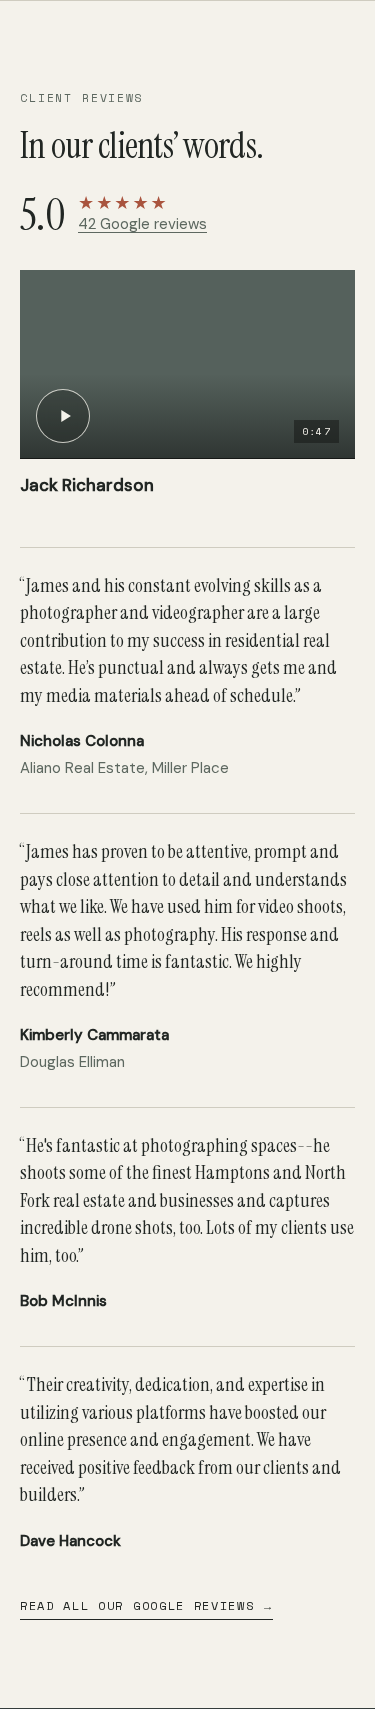
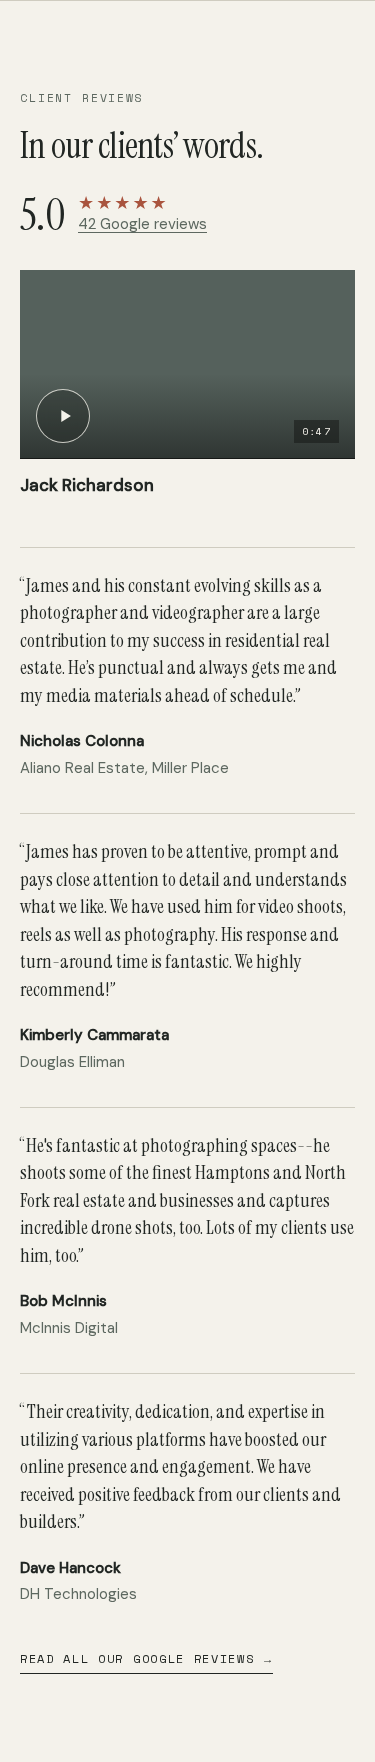
James's Vercel comments, Sep 29: captions, credits, Creator CTAs, Commercial layout and crops, review names, BPE still
- Architecture: no caption beneath the paired photos (alt text kept).
- Home and service heroes: "On screen: ..." credit removed.
- About: Bob McInnis, McInnis Digital; Dave Hancock, DH Technologies.
- LI Creator Studios: no "Part of a session" / "With Recording + Editing" tags on formats; the story section ends with
  two buttons, Book a Session and See Pricing (to #sessions).
- Commercial: "What we do" eyebrow over a wider heading (two lines); RevivaLuxe portrait framed higher so both faces
  show; BPE Ironworks feature uses a torch-cutting action frame from the approved film (ph-bpe-torch-cut, pinned,
  gallery:false); "Commercial real estate media"; Best value badge sits above the plan name below 1280 px.
- Pending: Home LI Creator Studios tile clip (Champagne Confidential, EP 22 clip 6) once the file is staged.
- Tests: e2e 61/61, unit 29/29, media 253/253, legacy 23/23.

Claude-Session: https://claude.ai/code/session_01QdXDHTFB7SVkVxiv2k6vdC

diff --git a/src/pages.js b/src/pages.js
@@ -48,7 +48,7 @@ export function buildPages(ctx) {
     <h1 class="display">${title}</h1>
     ${lede ? `<p class="lede">${lede}</p>` : ''}
     ${cta ? `<div class="actions">${cta}</div>` : ''}
-    ${video && allMediaById[video.credit || video.film || video.loop] ? `<p class="hero-credit">On screen: ${esc(allMediaById[video.credit || video.film || video.loop].title)}</p>` : video?.creditText ? `<p class="hero-credit">${esc(video.creditText)} ${video.pending ? needsApproval({ approval: 'pending' }, video.pending) : ''}</p>` : ''}
+    ${video?.creditText ? `<p class="hero-credit">${esc(video.creditText)} ${video.pending ? needsApproval({ approval: 'pending' }, video.pending) : ''}</p>` : ''}
   </div>
   ${video ? motionToggle : ''}
 </section>`;
@@ -150,7 +150,6 @@ export function buildPages(ctx) {
       <p class="hero__meta">East End · Hamptons · North Fork<br>Suffolk · Nassau · NYC</p>
     </div>
   </div>
-  <p class="hero-credit hero-credit--home wrap">On screen: ${esc(allMediaById['re-hamptons-beachfront']?.title || '')}</p>
   ${motionToggle}
 </section>
 
@@ -800,11 +799,8 @@ ${agentMonthly.length ? `<section class="section section--tint">
   const archUsed = new Set(Object.values(archPairIds));
   const archFig = (id, { sizes = '(min-width: 900px) 40vw, 100vw', cls = '' } = {}) => {
     const m = archById[id]; if (!m) return '';
-    const pr = m.project ? projectBySlug[m.project] : null;
-    const cap = pr && visible(pr)
-      ? `${esc(m.alt || m.title)}. <a href="${projectPath(pr)}" data-track="project_click" data-track-location="arch_pair">${esc(pr.client || pr.title)}${pr.location ? `, ${esc(pr.location)}` : ''}</a>`
-      : `${esc(m.title)}${m.location && !m.title.includes(m.location) ? `, ${esc(m.location)}` : ''}`;
-    return `<figure class="pair-fig ${cls}" data-media="${esc(m.id)}"><div class="still still--${m.orientation}">${img(m.src, { alt: m.alt || m.title, thumb: m.thumb, sizes })}</div><figcaption>${cap}</figcaption></figure>`;
+    // James, Sep 29 2026 (Vercel comment): no caption beneath these photos; each keeps its alt text.
+    return `<figure class="pair-fig ${cls}" data-media="${esc(m.id)}"><div class="still still--${m.orientation}">${img(m.src, { alt: m.alt || m.title, thumb: m.thumb, sizes })}</div></figure>`;
   };
   // Gallery (Home Selected Work style, same work.json collection): ONE item per project (its lead asset; the rest stay
   // on the project page) plus approved work without a verified project. Segments come from the project, never a house name.
@@ -981,16 +977,16 @@ ${bleedCta({ title: 'Finished something worth showing?', text: 'Share the projec
     })}
 <section class="section" aria-labelledby="com-value-h">
   <div class="wrap">
-    <div class="split">
-      <div class="split__label"><p class="eyebrow">What we do</p></div>
+    <div class="com-value">
+      <p class="eyebrow">What we do</p>
       <div>
         <h2 class="h2 reveal" id="com-value-h">Photography and film that show <em>what your business actually does.</em></h2>
         <p class="lede reveal">We plan, shoot, edit and deliver brand media for businesses and their agencies: your people, your spaces and your work, made to be used across your website, social channels and sales. One team from the first call to the final files, so you get consistent content without building an in-house department.</p>
       </div>
     </div>
     <div class="features features--4">
-      <div class="feature reveal">${mediaFig('ph-revivaluxe-portrait')}<h3 class="h3">Brand and team photography</h3><p>People, spaces and services, photographed to match how you want to be seen.</p></div>
-      <div class="feature reveal">${mediaFig('biz-bpe-ironworks', { alt: 'Frame from the BPE Ironworks film' })}<h3 class="h3">Film and short-form</h3><p>Brand films, project showcases and short cuts for every channel you use.</p></div>
+      <div class="feature reveal">${mediaFig('ph-revivaluxe-portrait', { pos: '50% 22%' })}<h3 class="h3">Brand and team photography</h3><p>People, spaces and services, photographed to match how you want to be seen.</p></div>
+      <div class="feature reveal">${mediaFig('ph-bpe-torch-cut')}<h3 class="h3">Film and short-form</h3><p>Brand films, project showcases and short cuts for every channel you use.</p></div>
       <div class="feature reveal">${mediaFig('cs-ph-island-federal')}<h3 class="h3">Podcasts and studio days</h3><p>Recorded at <a href="/creator-studios">LI Creator Studios</a> or on location.</p></div>
       <div class="feature reveal">${mediaFig('ph-clos-lighting')}<h3 class="h3">Recurring production</h3><p>A monthly cadence so content keeps coming without hiring several separate roles.</p></div>
     </div>
@@ -1026,7 +1022,7 @@ ${cp.length || b2b.length ? `<section class="section">
     <p class="eyebrow">Starting points</p>
     <h2 class="h2 reveal">Where standard scopes begin.</h2>
     ${cp.length ? `<div class="cpm">
-      <h3 class="h3">Commercial property media</h3>
+      <h3 class="h3">Commercial real estate media</h3>
       <p class="cpm__kicker">Photography · Aerial · Video · Portfolio coverage</p>
       ${cpPort?.lede ? `<p class="cpm__lede">${esc(cpPort.lede)}</p>` : ''}
       <ul class="cpm__tiers" role="list">${join(cp, (c) => `<li class="cpm__tier">
@@ -1112,7 +1108,8 @@ ${bleedCta({ title: 'Tell us what you need to make.', text: 'A short call is the
   const csStart = (loc, label = 'Book a Studio Session', cls = 'btn btn--solid') => `<a class="${cls}" href="${creatorHref}"${creatorExternal} data-track="creator_click" data-track-location="${loc}">${label}${creatorExternal ? '<span class="sr-only"> (opens LI Creator Studios booking in a new tab)</span>' : ''}</a>`;
   // James, Sep 28 2026: booking is through LI Creator Studios (the button still opens the verified booking flow).
   const csBookingNote = `<p class="small booking-note">Studio sessions are booked through LI Creator Studios. Choose your session and time there. Not sure which session fits? <a href="${creatorInquiry}" data-track="creator_click" data-track-location="creator_inquiry">Ask us first</a>.</p>`;
-  const scope = (included) => `<span class="scope-tag scope-tag--${included ? 'in' : 'out'}">${included ? 'Part of a session' : 'With Recording + Editing, or by quote'}</span>`;
+  // James, Sep 29 2026 (Vercel comment): no "Part of a session" / "With Recording + Editing" tags on the formats.
+  const scope = () => '';
   // James, Sep 28 2026: no Recent Sessions section; approved photos and clips sit beside the copy they support,
   // with no captions beneath them (each keeps its alt text or accessible name).
   const csById = Object.fromEntries(media.filter((m) => m.category === 'creator-studios').map((m) => [m.id, m]));
@@ -1169,7 +1166,7 @@ ${bleedCta({ title: 'Tell us what you need to make.', text: 'A short call is the
       <h2 class="h2 reveal" id="cs-story-h">People choose who they work with <em>before they ever call.</em></h2>
       <p>Your website lists what you do. A recorded conversation lets customers hear why you do it, what you believe and how you think, in your own words.</p>
       <ul class="cs-points"><li><strong>The person.</strong> Where you came from and why you do this work.</li><li><strong>The purpose.</strong> The standard you hold your work to.</li><li><strong>The expertise.</strong> The questions you answer every week, explained properly.</li></ul>
-      <p><a class="link-arrow" href="/creator-studios/sessions" data-track="project_click" data-track-location="creator_story">See all sessions ${arrow}</a></p>
+      <div class="actions">${csStart('creator_story', 'Book a Session')}<a class="btn btn--outline" href="#sessions" data-track="pricing_click" data-track-location="creator_story">See Pricing</a></div>
     </div>
     <div class="cs-pair__media cs-loops" role="group" aria-label="Examples of podcast shorts made with clients">${join(csLoops, ([id, label]) => `<div class="cs-loop">${ambient(id, { label })}</div>`)}</div>
   </div>

diff --git a/src/assets/styles.css b/src/assets/styles.css
@@ -1050,3 +1050,10 @@ button.gcard__open:hover .sw-card__play { transform: scale(1.06); }
 .ac-steps { margin: 22px 0 0; padding-left: 1.2em; display: grid; gap: 12px; }
 .ac-why__film { max-width: 360px; margin-inline: auto; width: 100%; }
 .pcards__note { max-width: none; margin-top: 20px; text-align: left; }
+
+/* James, Sep 29 2026 (Vercel comments). */
+/* Commercial "What we do": eyebrow over the heading, body starts at the left margin so the heading runs on two lines. */
+.com-value .h2 { max-width: 17em; }
+.com-value .lede { max-width: 62ch; }
+/* Best value badge: to the right only when the card is wide enough; otherwise above the plan name. */
+@media (max-width: 1279px) { .plan--best .plan__badge { position: static; margin: 0 0 12px; } }
